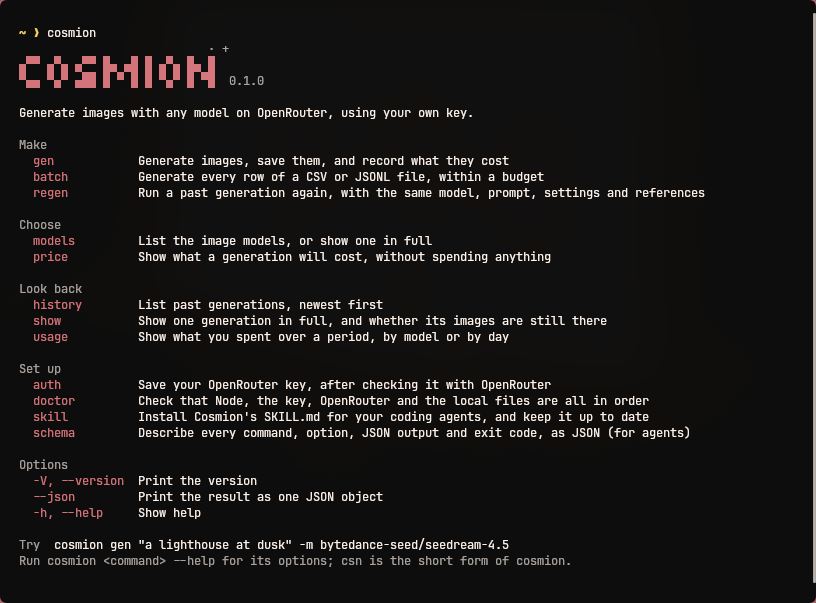
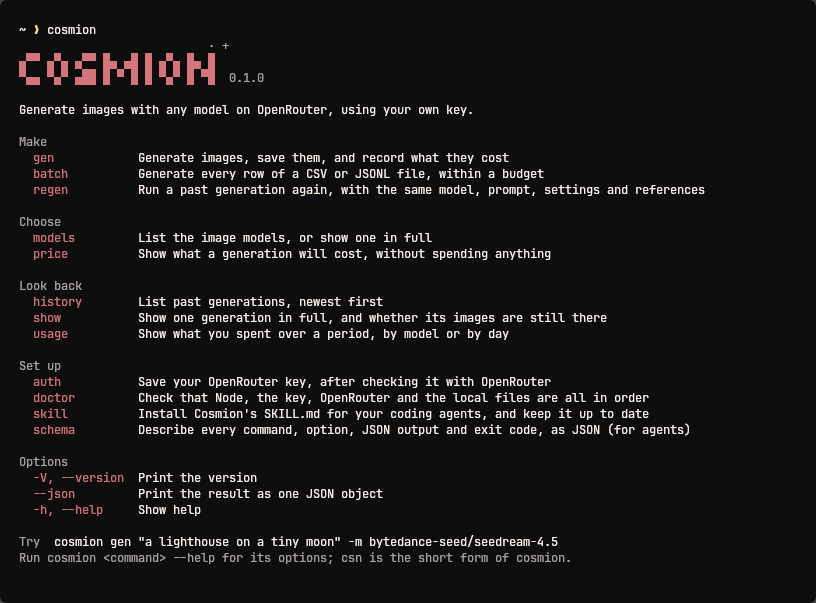
Use space-themed example prompts
The bakery, bicycle and lighthouse-at-dusk examples didn't fit Cosmion's
name, so the home screen, README and SKILL.md now use space-themed prompts.
Retake the home screen image to show the new Try line, and fix an "it's"
typo in the README.

diff --git a/src/cli/home.ts b/src/cli/home.ts
@@ -48,7 +48,7 @@ export function homeScreen(
     style('dim', 'Options'),
     ...OPTIONS.map(([flag, about]) => entry(flag, about)),
     '',
-    `${style('dim', 'Try')}  cosmion gen "a lighthouse at dusk" -m bytedance-seed/seedream-4.5`,
+    `${style('dim', 'Try')}  cosmion gen "a lighthouse on a tiny moon" -m bytedance-seed/seedream-4.5`,
     style('dim', 'Run cosmion <command> --help for its options; csn is the short form of cosmion.'),
     '',
   ].join('\n')

diff --git a/README.md b/README.md
@@ -54,8 +54,8 @@ You need Node 22.12 or newer, on macOS, Linux or Windows.
 3. Generate an image:
 
    ```sh
-   cosmion gen "a red bicycle outside a bakery, watercolor" -m bytedance-seed/seedream-4.5 \
-     --resolution 2K --out bicycle.png
+   cosmion gen "a tiny voxel space station orbiting a ringed planet, isometric" \
+     -m bytedance-seed/seedream-4.5 --resolution 2K --out station.png
    ```
 
    `cosmion gen` starts straight away, without showing the price or asking you to confirm,
@@ -91,8 +91,9 @@ cosmion skill install --dir <path>
 
 Then ask your agent something like this:
 
-> Make a 16:9 hero image of a bakery at sunrise for the landing page and save it as
-> `public/hero.png`. Tell me what it will cost before you generate it.
+> Make a 16:9 hero image of a small research dome on a rust-red plain at sunset, two moons
+> overhead, for the landing page and save it as `public/hero.png`. Tell me what it will cost
+> before you generate it.
 
 The skill tells agents to check the price when cost matters, but an agent won't always stop
 to tell you first. If you want to see the price before it spends anything, ask for that, as
@@ -103,8 +104,8 @@ result:
 
 ```sh
 cosmion price -m bytedance-seed/seedream-4.5 --aspect 16:9 --json
-cosmion gen "a bakery at sunrise" -m bytedance-seed/seedream-4.5 --aspect 16:9 \
-  --out public/hero.png --json
+cosmion gen "a small research dome on a rust-red plain at sunset, two moons overhead" \
+  -m bytedance-seed/seedream-4.5 --aspect 16:9 --out public/hero.png --json
 ```
 
 Every command takes `--json` and prints one JSON object on stdout. Exit codes are stable,
@@ -221,7 +222,7 @@ My first attempt was
 [`pp-openrouter-image`](https://www.skills.sh/mvanhorn/printing-press-library/pp-openrouter-image),
 now in the CLI Printing Press library. I made it with Printing Press and an AI agent called
 Hermes, texting instructions over Telegram until it was ready to publish. Printing Press
-has its own way of building things, though, and it's code lives in their library. I wanted to build something that felt more like my own product, and something I could share from my own repo.
+has its own way of building things, though, and its code lives in their library. I wanted to build something that felt more like my own product, and something I could share from my own repo.
 
 I built Cosmion with AI coding agents too, but I was more involved this time. I chose the
 tech stack and directed the work, especially how it feels to use and how it looks in the

diff --git a/SKILL.md b/SKILL.md
@@ -92,7 +92,7 @@ Options: `-m, --model <id>` (default `COSMION_MODEL`), the gen options above,
   "id": "k3f9x2ab",
   "created_at": "2026-10-17T14:03:11.204Z",
   "model": "bytedance-seed/seedream-4.5",
-  "prompt": "a lighthouse at dusk",
+  "prompt": "a lighthouse on a tiny moon",
   "settings": { "aspect_ratio": "16:9", "resolution": "2K", "seed": 1234 },
   "references": [],
   "images": [
@@ -356,7 +356,7 @@ With `--json`, a failure prints one object on stdout:
 
 ```sh
 cosmion price -m bytedance-seed/seedream-4.5 --resolution 2K --json
-cosmion gen "a lighthouse at dusk, watercolor" -m bytedance-seed/seedream-4.5 \
+cosmion gen "a lighthouse on a tiny moon, watercolor" -m bytedance-seed/seedream-4.5 \
   --resolution 2K --out images/lighthouse.png --json
 ```
 
